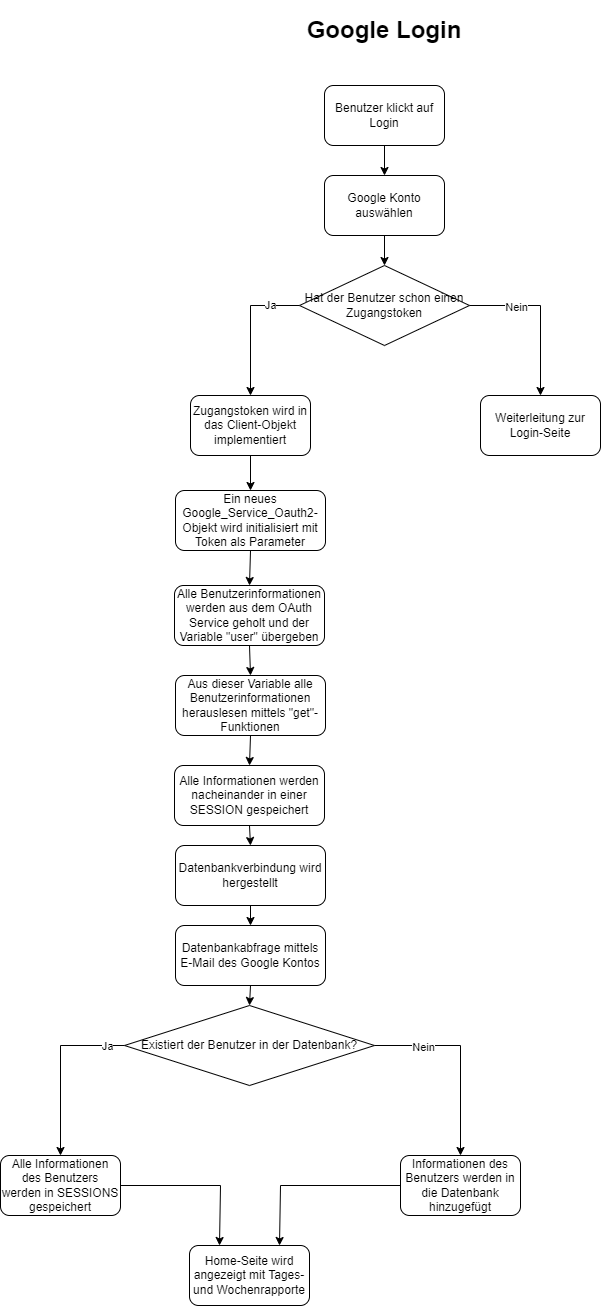
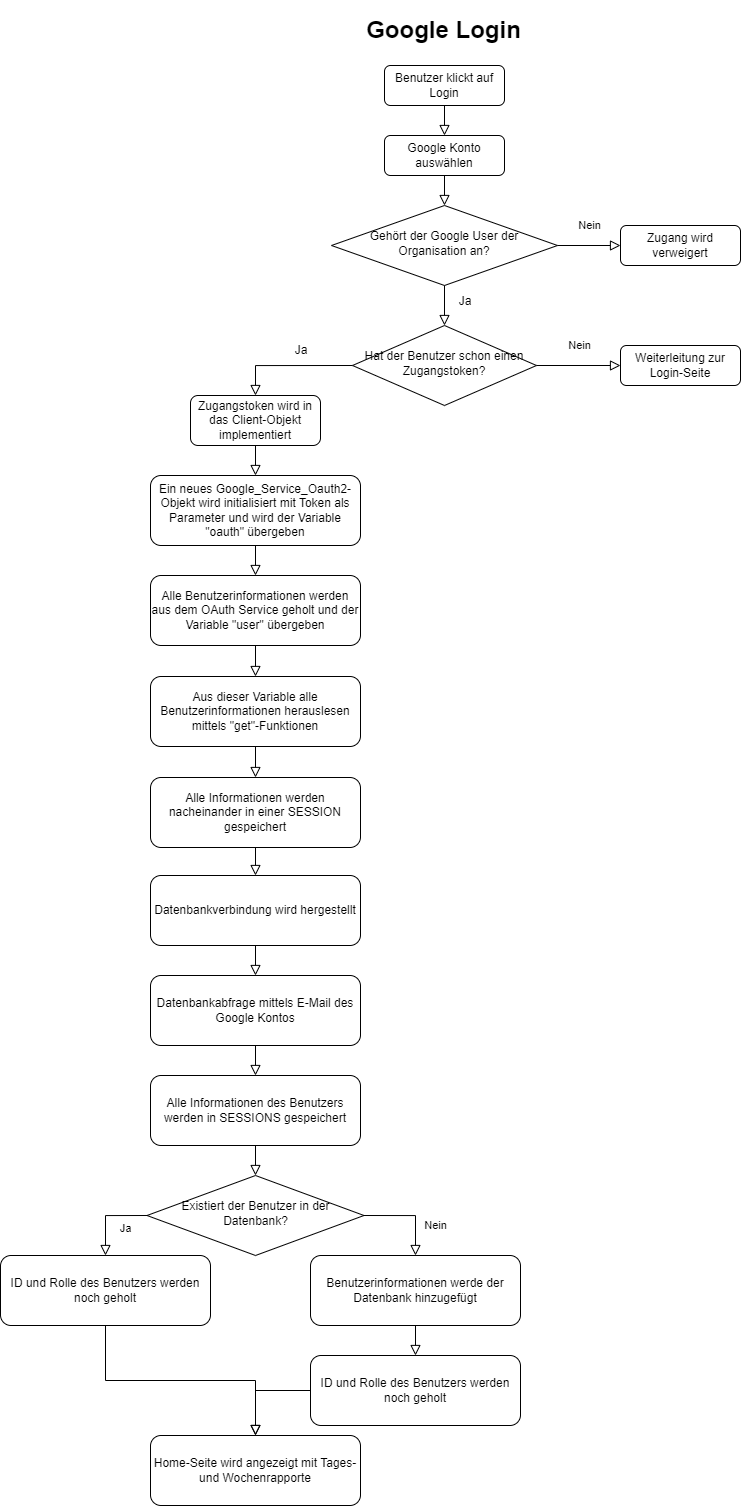
Changed JS file names + Added Google Diagramm

diff --git a/app/Models/Specialist.php b/app/Models/Specialist.php
@@ -9,7 +9,7 @@ class Specialist
     }
 
     // Gets all daily raports
-	public function getdailyRaports(){
+	public function getDailyRaports(){
 		$statement = $this->db->prepare("SELECT journal.journalId, journal.text, journal.date, user.full_name, GROUP_CONCAT(t.topic SEPARATOR ' | ') AS selected_topics
         FROM journal
         LEFT JOIN selectedtopics ON journal.journalId = selectedtopics.fk_journalId
@@ -22,7 +22,7 @@ class Specialist
 	}
 
     // Gets all weekly raports
-	public function getweeklyRaports(){
+	public function getWeeklyRaports(){
 		$statement = $this->db->prepare('SELECT *, user.full_name FROM weeklyreport 
 		INNER JOIN user ON user.userId = weeklyreport.fk_userId WHERE weeklyreport.status = 1');
 		$statement->execute();
@@ -30,18 +30,10 @@ class Specialist
 	}
 
     // Gets all apprentices
-    public function getAllLernende(){
+    public function getAllLearner(){
         $statement = $this->db->prepare('SELECT * FROM user
         WHERE user.role = 0');
 		$statement->execute();
         return $statement;
-    }
-
-	// Sort Algorithm
-    public function sortTask($sort_option){
-        // $statement = $this->db->prepare("SELECT * FROM aufgabe WHERE fk_benutzerId = :benutzerId AND status = 0 ORDER BY $sort_option");
-        // $statement->bindParam(':benutzerId', $_SESSION["id"], PDO::PARAM_STR);
-        // $statement->execute();
-        // return $statement;
     }
 }

diff --git a/app/Models/Journal.php b/app/Models/Journal.php
@@ -11,15 +11,15 @@ class Journal
 	// Gets all daily journals which have not been released
 	public function getAllDailyJournalsInProcess(){
 		$statement = $this->db->prepare("SELECT journal.journalId, journal.text, journal.date, user.full_name, GROUP_CONCAT(t.topic SEPARATOR ' | ') AS selected_topics
-    FROM journal
-    LEFT JOIN selectedtopics ON journal.journalId = selectedtopics.fk_journalId
-    LEFT JOIN topic AS t ON selectedtopics.fk_topicId = t.topicId
-    INNER JOIN user ON user.userId = journal.fk_userId
-    WHERE journal.status = 0 AND journal.fk_userId = :id AND (selectedtopics.fk_topicId IS NULL OR selectedtopics.fk_topicId != '')
-    GROUP BY journal.journalId");
-    $statement->bindParam(':id', $_SESSION["id"], PDO::PARAM_STR);
-    $statement->execute();
-    return $statement;
+		FROM journal
+		LEFT JOIN selectedtopics ON journal.journalId = selectedtopics.fk_journalId
+		LEFT JOIN topic AS t ON selectedtopics.fk_topicId = t.topicId
+		INNER JOIN user ON user.userId = journal.fk_userId
+		WHERE journal.status = 0 AND journal.fk_userId = :id AND (selectedtopics.fk_topicId IS NULL OR selectedtopics.fk_topicId != '')
+		GROUP BY journal.journalId");
+		$statement->bindParam(':id', $_SESSION["id"], PDO::PARAM_STR);
+		$statement->execute();
+		return $statement;
 	}
 
 	// Gets all daily journals which have been released

diff --git a/app/Views/specialist/overview.view.php b/app/Views/specialist/overview.view.php
@@ -27,7 +27,7 @@ include(__DIR__ . DIRECTORY_SEPARATOR . ".." . DIRECTORY_SEPARATOR . "General" .
         <h1>Weekly reports:</h1>
         <div class="flex-container" id="weekly">
             <?php
-                    foreach ($arrayweeklyRaports as $weeklyRaports){?>
+                    foreach ($arrayWeeklyRaports as $weeklyRaports){?>
             <div class="container-child">
                 <div class="content">
                     <div class="contentText">
@@ -58,7 +58,7 @@ include(__DIR__ . DIRECTORY_SEPARATOR . ".." . DIRECTORY_SEPARATOR . "General" .
         <h1>Daily reports:</h1>
         <div class="flex-container" id="daily">
             <?php
-                    foreach ($arraydailyRaports as $dailyRaports) {?>
+                    foreach ($arrayDailyRaports as $dailyRaports) {?>
             <div class="container-child">
                 <div class="content">
                     <div class="contentText">
@@ -85,7 +85,7 @@ include(__DIR__ . DIRECTORY_SEPARATOR . ".." . DIRECTORY_SEPARATOR . "General" .
     </main>
 
     <script src="public/js/search.js"></script>
-    <script src="public/js/app.js"></script>
+    <script src="public/js/responsive.js"></script>
     <script src="public/js/route.js"></script>
     <script src="ckeditor/ckeditor.js"></script>
 

diff --git a/app/Models/WeeklyReport.php b/app/Models/WeeklyReport.php
@@ -16,7 +16,7 @@ class WeeklyReport
         return $statement;
 	}
 
-    public function addweeklyRaport($calendar_week, $completed_tasks, $still_in_work, $reflection, $issues, $status){
+    public function addWeeklyRaport($calendar_week, $completed_tasks, $still_in_work, $reflection, $issues, $status){
 		$statement = $this->db->prepare('INSERT INTO `weeklyreport` (calendarWeek, doneWork, ongoingWork, reflection, occurredProblems, status, fk_userId) 
 		VALUES (:kalenderwoche, :erledigte_arbeiten, :laufende_arbeiten, :reflexion, :aufgetretene_probleme, :status, :id)');
 		$statement->bindParam(':kalenderwoche', $calendar_week, PDO::PARAM_STR);
@@ -71,13 +71,6 @@ class WeeklyReport
 	}
 
 	public function getWeeklyReport($id){
-		$statement = $this->db->prepare('SELECT * FROM weeklyreport WHERE weeklyReportId = :id');
-		$statement->bindParam(':id', $id, PDO::PARAM_STR);
-		$statement->execute();
-        return $statement;
-	}
-
-	public function seeWeekly($id){
 		$statement = $this->db->prepare('SELECT * FROM weeklyreport WHERE weeklyReportId = :id');
 		$statement->bindParam(':id', $id, PDO::PARAM_STR);
 		$statement->execute();

diff --git a/app/Controllers/SpecialistController.php b/app/Controllers/SpecialistController.php
@@ -14,19 +14,12 @@ class SpecialistController
 			if($_SESSION['role'] == 1){
 				// Create instances of Fachkraft and Keyword classes
 				$Specialist = new Specialist();
-				$Keyword = new Keyword();
 						
 				// Retrieve all daily rapports from database
-				$arraydailyRaports = $Specialist->getdailyRaports()->fetchAll();
+				$arrayDailyRaports = $Specialist->getDailyRaports()->fetchAll();
 
 				// Retrieve all weekly rapports from database
-				$arrayweeklyRaports = $Specialist->getweeklyRaports()->fetchAll();
-
-				// Retrieve all apprentices from database
-				$arrayLernende = $Specialist->getAllLernende()->fetchAll();
-
-				// Retrieve all keywords from database
-				$arrayTopics = $Keyword->getAllKeywords()->fetchAll();
+				$arrayWeeklyRaports = $Specialist->getWeeklyRaports()->fetchAll();
 				
 				// Load overview view file
 				require 'app/Views/specialist/overview.view.php';

diff --git a/app/Views/home.view.php b/app/Views/home.view.php
@@ -102,15 +102,9 @@ include ("general/navside.view.php");
             <?php } ?>
         </div>
         <?php } ?>
-
-        <!-- For the administrator -->
-        <?php if($_SESSION['role'] == 2) {?>
-
-
-        <?php } ?>
     </main>
 
-    <script src="public/js/app.js"></script>
+    <script src="public/js/responsive.js"></script>
     <script src="ckeditor/ckeditor.js"></script>
     <script src="public/js/route.js"></script>
 

diff --git a/app/Controllers/WeeklyReportController.php b/app/Controllers/WeeklyReportController.php
@@ -47,7 +47,7 @@ class WeeklyReportController
 	
 				$status = 0;
 	
-				$WeeklyReport->addweeklyRaport($calendar_week, $completed_tasks, $still_in_work, $reflection, $issues, $status);
+				$WeeklyReport->addWeeklyRaport($calendar_week, $completed_tasks, $still_in_work, $reflection, $issues, $status);
 	
 				// Redirect to the weekly report page after successfully adding the journal entry
 				header('Location: weeklyRaport');

diff --git a/app/Views/learner/addkeyword.view.php b/app/Views/learner/addkeyword.view.php
@@ -26,7 +26,7 @@ include(__DIR__ . DIRECTORY_SEPARATOR . ".." . DIRECTORY_SEPARATOR . "General" .
         </form>
     </main>
 
-    <script src="public/js/app.js"></script>
+    <script src="public/js/responsive.js"></script>
     <script src="public/js/route.js"></script>
     <script src="public/js/addKeywordValidation.js"></script>
     <script src="ckeditor/ckeditor.js"></script>

diff --git a/app/Views/learner/addweeklyjournal.view.php b/app/Views/learner/addweeklyjournal.view.php
@@ -41,7 +41,7 @@ include(__DIR__ . DIRECTORY_SEPARATOR . ".." . DIRECTORY_SEPARATOR . "General" .
         </form>
     </main>
 
-    <script src="public/js/app.js"></script>
+    <script src="public/js/responsive.js"></script>
     <script src="public/js/route.js"></script>
     <script src="ckeditor/ckeditor.js"></script>
     <script src="public/js/addWeeklyValidation.js"></script>

diff --git a/app/Views/learner/editWeeklyJournal.view.php b/app/Views/learner/editWeeklyJournal.view.php
@@ -43,7 +43,7 @@ include(__DIR__ . DIRECTORY_SEPARATOR . ".." . DIRECTORY_SEPARATOR . "General" .
         </form>
     </main>
 
-    <script src="public/js/app.js"></script>
+    <script src="public/js/responsive.js"></script>
     <script src="ckeditor/ckeditor.js"></script>
     <script src="public/js/route.js"></script>
     <script src="public/js/addWeeklyValidation.js"></script>

diff --git a/app/Views/learner/weeklyraport.view.php b/app/Views/learner/weeklyraport.view.php
@@ -109,7 +109,7 @@ include(__DIR__ . DIRECTORY_SEPARATOR . ".." . DIRECTORY_SEPARATOR . "General" .
         <?php } ?>
     </main>
 
-    <script src="public/js/app.js"></script>
+    <script src="public/js/responsive.js"></script>
     <script src="public/js/route.js"></script>
     <script src="public/js/search.js"></script>
     <script src="ckeditor/ckeditor.js"></script>

diff --git a/app/Views/learner/editKeyword.view.php b/app/Views/learner/editKeyword.view.php
@@ -28,7 +28,7 @@ include(__DIR__ . DIRECTORY_SEPARATOR . ".." . DIRECTORY_SEPARATOR . "General" .
         </form>
     </main>
 
-    <script src="public/js/app.js"></script>
+    <script src="public/js/responsive.js"></script>
     <script src="public/js/route.js"></script>
     <script src="public/js/addKeywordValidation.js"></script>
 
